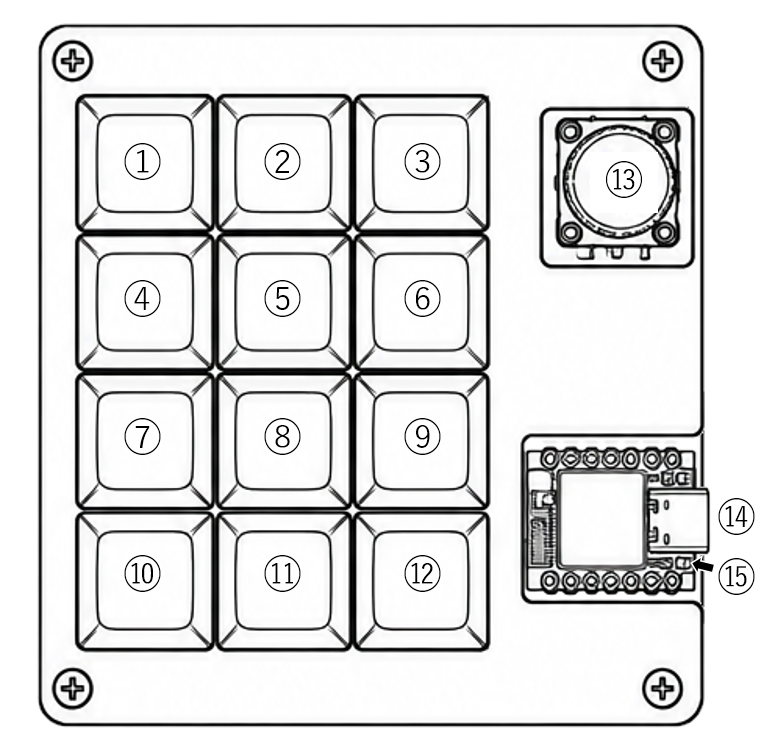
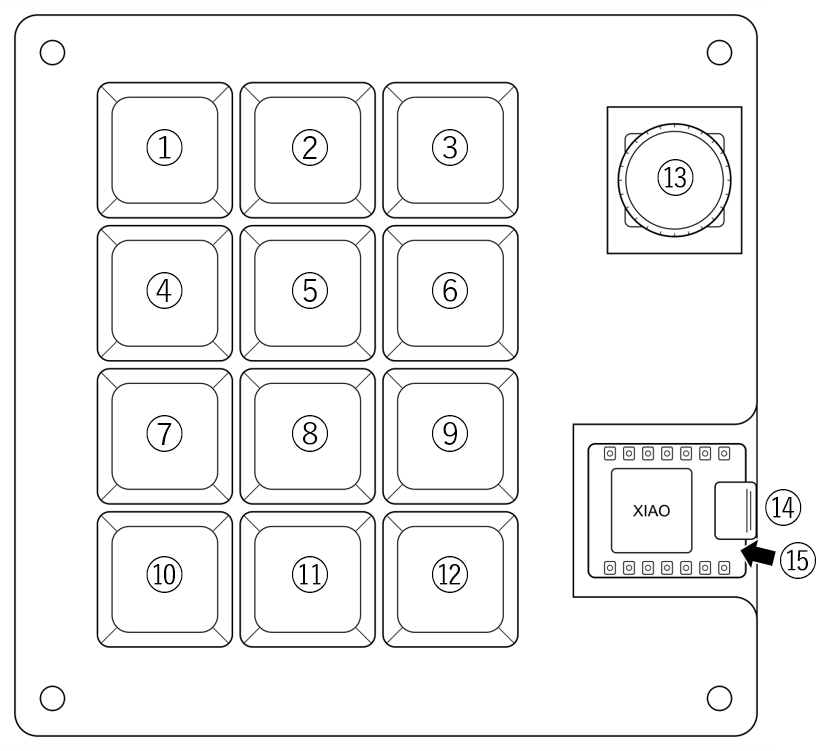
docs: Add assembly guide draft and publishing support

Changed region(s): [[0.0, 0.0, 0.9871, 0.98]]

diff --git a/scripts/templates/assembly-guide.html b/scripts/templates/assembly-guide.html
@@ -1,0 +1,28 @@
+<!doctype html>
+<html lang="ja">
+<head>
+<meta charset="utf-8">
+<meta name="viewport" content="width=device-width,initial-scale=1">
+<title>組み立てガイド — ChainPad</title>
+<meta name="description" content="ChainPad自作キットの組み立てガイド。">
+<link rel="icon" type="image/svg+xml" sizes="any" href="../favicon.svg">
+<style>
+:root{color-scheme:light dark;--bg:#10151d;--panel:#1b2330;--text:#eef5ff;--muted:#a9b8cc;--line:#374557;--accent:#66dbc1;font:16px system-ui,sans-serif}
+*{box-sizing:border-box}body{margin:0;background:var(--bg);color:var(--text)}main{width:min(860px,calc(100% - 32px));margin:auto}
+nav{display:flex;gap:20px;flex-wrap:wrap;padding:24px 0;border-bottom:1px solid var(--line)}a{color:var(--accent);text-underline-offset:4px}a:focus-visible{outline:3px solid var(--accent);outline-offset:4px}
+article{padding:36px 0 48px;line-height:1.85;overflow-wrap:anywhere}h1{font-size:clamp(30px,6vw,46px);line-height:1.3}h2{margin-top:2em;border-bottom:1px solid var(--line);padding-bottom:.3em}h3{margin-top:1.6em}h1,h2,h3,h4{scroll-margin-top:20px}
+img,video{max-width:100%;height:auto}pre{padding:16px;background:var(--panel);border:1px solid var(--line);border-radius:8px;overflow:auto;line-height:1.6}code{font-size:.9em}blockquote{margin:1.5em 0;padding:.3em 1em;border-left:4px solid var(--accent);background:var(--panel)}
+table{display:block;max-width:100%;overflow:auto;border-collapse:collapse}th,td{border:1px solid var(--line);padding:8px 12px;text-align:left}th{background:var(--panel)}.toc{padding:12px 20px;border:1px solid var(--line);border-radius:8px}footer{padding:24px 0 40px;border-top:1px solid var(--line);color:var(--muted);font-size:14px}
+@media(prefers-color-scheme:light){:root{--bg:#f3f6f8;--panel:#fff;--text:#182a38;--muted:#506275;--line:#bdcbd5;--accent:#087565}}
+</style>
+</head>
+<body>
+<main>
+<nav aria-label="メインナビゲーション"><a href="../">ChainPad ポータル</a><a href="../getting-started/">Getting Started</a><a href="../manual/">マニュアル</a><a href="../installer/">Web Installer</a><a href="https://github.com/shimez/ChainPad">GitHub</a></nav>
+<article aria-label="組み立てガイド">
+<!-- DOCUMENT_CONTENT -->
+</article>
+<footer><a href="../">ChainPad</a> · 組み立てガイド</footer>
+</main>
+</body>
+</html>

diff --git a/site/index.html b/site/index.html
@@ -12,7 +12,7 @@
 </style>
 </head>
 <body><main>
-<nav aria-label="メインナビゲーション"><a href="getting-started/">Getting Started</a><a href="manual/">マニュアル</a><a href="https://github.com/shimez/ChainPad">GitHub</a></nav>
+<nav aria-label="メインナビゲーション"><a href="getting-started/">Getting Started</a><a href="manual/">マニュアル</a><a href="assembly-guide/">組み立てガイド</a><a href="https://github.com/shimez/ChainPad">GitHub</a></nav>
 <header><small>PROJECT CHIMERA</small><div class="brand"><img src="favicon.svg" alt="" width="100" height="100"><h1>ChainPad</h1></div><p>マルチプロトコルマクロキーパッド</p><p class="muted">ChainPadは、1つのキー操作にOSC・MIDI・HIDなど複数のアクションを組み合わせて実行できる、12キー＋ロータリーエンコーダーのキーパッドです。</p><div class="links"><a class="button" href="getting-started/">Getting Started →</a><a href="https://github.com/shimez/ChainPad#readme">使い方・仕様を見る</a></div></header>
 <section aria-labelledby="possibilities">
 <h2 id="possibilities">ChainPadでできること</h2>

diff --git a/tests/test_build_site.py b/tests/test_build_site.py
@@ -69,7 +69,7 @@ class PagesTests(unittest.TestCase):
     def test_guide_renders_markdown_and_copies_images(self):
         root = Path(self.temp.name) / "source"
         (root / "scripts/templates").mkdir(parents=True)
-        for page in ("getting-started", "manual"):
+        for page in ("getting-started", "manual", "assembly-guide"):
             guide = root / "site" / page
             (guide / "images").mkdir(parents=True)
             (guide / "images/sample.svg").write_text('<svg xmlns="http://www.w3.org/2000/svg"/>')
@@ -77,7 +77,7 @@ class PagesTests(unittest.TestCase):
             (root / f"scripts/templates/{page}.html").write_text('<main><!-- DOCUMENT_CONTENT --></main>')
         with patch.object(site, "ROOT", root), patch.object(site, "OUTPUT", self.output), patch.object(site.subprocess, "check_output", return_value="a" * 40):
             site.copy_site()
-        for page in ("getting-started", "manual"):
+        for page in ("getting-started", "manual", "assembly-guide"):
             html = (self.output / page / "index.html").read_text(encoding="utf-8")
             self.assertIn('<div class="toc">', html)
             self.assertIn("<table>", html)

diff --git a/scripts/build_site.py b/scripts/build_site.py
@@ -78,7 +78,7 @@ def prepare(base):
 
 def copy_site():
     shutil.copytree(ROOT / "site", OUTPUT, dirs_exist_ok=True, ignore=shutil.ignore_patterns("*.md", ".gitkeep"))
-    for page in ("getting-started", "manual"):
+    for page in ("getting-started", "manual", "assembly-guide"):
         source = ROOT / f"site/{page}/index.md"
         template = (ROOT / f"scripts/templates/{page}.html").read_text(encoding="utf-8")
         content = markdown.markdown(source.read_text(encoding="utf-8"), extensions=["fenced_code", "tables", "toc", "sane_lists", "footnotes"], output_format="html")

diff --git a/site/assembly-guide/index.md b/site/assembly-guide/index.md
@@ -1,0 +1,95 @@
+# ChainPad 組み立てガイド
+
+<!-- 本文をここに記載してください。執筆・公開方法は docs/assembly-guide-authoring.md を参照。 -->
+
+基板・エンコーダー・ネジ類を含む自作キットの組み立てガイドです。
+XIAOやキースイッチなどを別途用意し、はんだ付けして組み立てる方向けの内容です。
+
+準備中です。
+
+## 1. キットの内容について
+
+**キットの内容物**
+
+| 品名                     | 個数 |
+| ------------------------ | ---- |
+| メイン基板               | 1    |
+| バックパネル             | 1    |
+| スイッチプレート         | 1    |
+| ロータリーエンコーダー   | 1    |
+| ネジ（M3 12mm）          | 4    |
+| ナット（M3）             | 8    |
+| ワッシャー（M3 厚さ1mm） | 12   |
+
+**キット以外に必要なもの**
+
+| 品名                                                     | 個数 |
+| -------------------------------------------------------- | ---- |
+| XIAO（ESP32S3/C5/C6のいずれか）                          | 1    |
+| キースイッチ（MX互換）                                   | 12   |
+| Kailhスイッチソケット（キースイッチ交換に対応する場合）  | 12   |
+| XIAO取り付け用ソケット（直接はんだ付け方式の場合は推奨） | 1組  |
+
+## 2. 組み立て手順の違いについて
+
+「スイッチソケットを利用する場合」と「キースイッチを直接はんだ付けする場合」とで、組み立て手順が異なります。
+
+- キースイッチを直接はんだ付けする場合、XIAOはソケットで取り付けることを強く推奨します（SMD実装した場合、はんだ付け不良時のリカバリ時にスイッチプレートが干渉して作業が困難です）
+- キースイッチを直接はんだ付けする場合、キースイッチのはんだ付けの前にスイッチプレートを基板に取り付ける必要があります。
+
+## 3. 組み立て手順① スイッチソケット利用（推奨手順）
+
+### 3-1. スイッチソケットのはんだ付け
+
+メイン基板の裏面に、スイッチソケットをはんだ付けしてください（計12個）
+
+### 3-2. XIAOのはんだ付け
+
+SMD実装する場合：メイン基板の表面にXIAOを乗せ、側面をはんだ付けしてください
+ソケット実装する場合：メイン基板の表面からXIAOのソケットを挿入し、裏面ではんだ付けしてください
+
+### 3-3. ロータリーエンコーダーのはんだ付け
+
+メイン基板の表面からロータリーエンコーダーを挿入し、裏面ではんだ付けしてください。
+
+### 3-4. スイッチプレートの取り付け
+
+1. スイッチプレートの表面からねじを挿入し、裏面からワッシャーとナットを取り付けてください
+2. 手順1で組み合わせたスイッチプレートのネジをメイン基板に挿入してください
+
+### 3-5. バックパネルの取り付け
+
+1. メイン基板から出たネジ部分にワッシャーを2つずつ取り付けてください
+2. バックパネルを取り付け、ナットで締め付けてください
+
+### 3-6. キースイッチの取り付け
+
+キースイッチをソケットに挿入してください。（端子の折れ曲がりに注意してください）
+
+## 4. 組み立て手順② キースイッチ直接はんだ付け
+
+### 4-1. XIAO取り付け用ソケットのはんだ付け
+
+メイン基板の表面からXIAOのソケットを挿入し、裏面ではんだ付けしてください
+
+### 4-2. ロータリーエンコーダーのはんだ付け
+
+メイン基板の表面からロータリーエンコーダーを挿入し、裏面ではんだ付けしてください。
+
+### 4-3. スイッチプレートの取り付け
+
+1. スイッチプレートの表面からねじを挿入し、裏面からワッシャーとナットを取り付けてください
+2. 手順1で組み合わせたスイッチプレートのネジをメイン基板に挿入してください
+
+### 4-4. キースイッチのはんだ付け
+
+キースイッチを挿入し、メイン基板の裏面からはんだ付けしてください（計12個）
+
+### 4-5. バックパネルの取り付け
+
+1. メイン基板から出たネジ部分にワッシャーを2つずつ取り付けてください
+2. バックパネルを取り付け、ナットで締め付けてください
+
+## 5. 組み立て後の作業について
+
+TODO:Getting Startedのファーム書き込み手順の後、1から進む手順を案内

diff --git a/docs/assembly-guide-authoring.md b/docs/assembly-guide-authoring.md
@@ -1,0 +1,29 @@
+# 組み立てガイドの執筆・公開
+
+- 本文：`site/assembly-guide/index.md`
+- 画像：`site/assembly-guide/images/`
+- ページの外枠：`scripts/templates/assembly-guide.html`
+- 公開予定URL：<https://shimez.github.io/ChainPad/assembly-guide/>
+
+「準備中です。」を本文に置き換えてください。章立ては自由です。
+目次は `[TOC]`、画像は `![画像の説明](images/assembly-step.png)` のように記載できます。
+画像は実ファイルを追加してください。表・コードブロック・脚注も利用できます。
+組み立て後の初期設定には `[Getting Started](../getting-started/)` でリンクできます。
+
+## ローカルプレビュー
+
+リポジトリのルートで実行します。
+
+```powershell
+.\.venv\Scripts\python.exe scripts/build_site.py --preview
+.\.venv\Scripts\python.exe -m http.server 8773 --directory _site
+```
+
+<http://127.0.0.1:8773/assembly-guide/> を開きます。
+編集後は `--preview` を再実行してブラウザを更新してください。
+生成物の `_site/assembly-guide/index.html` は直接編集しません。
+
+## 公開
+
+mainへPushすると、既存のGitHub ActionsがHTMLと画像を生成・配置し、Pagesへ公開します。
+追加のGitHub設定は不要です。

diff --git a/site/getting-started/index.md b/site/getting-started/index.md
@@ -218,9 +218,9 @@ ChainPadに設定したキーと同じキーをOBS側に設定することで、
 ## 8. ファームウェアを書き換える（必要な場合のみ）
 
 ChainPadのアップデートがあった場合はファームウェアの更新が可能です。<br>
-また、ChainPadと共通の基板を利用するChainOSCPadシリーズのファームウェアへの書き換えも可能です。
+また、ChainPadと共通の基板を利用するChainOSCPadシリーズのファームウェアへの書き換えもほぼ同じ手順で可能です。
 
-1. Web Installerのページにアクセスし、「Connect」や「Install」のボタンを押す
+1. [Web Installerのページ](../installer/)にアクセスし、「ChainPadをインストール」のボタンを押す
 2. シリアルポートの一覧が表示されるため、「USB JTAG/serial debug unit」と書かれたポートを選択する
 3. 画面の指示に従い、ファームウェアを書き込む
 4. ファームウェア書き換え後はBluetooth接続が不安定になる場合があります。PCのBluetooth設定で『ChainPad』（旧名『ChainPad Chimera』）を一旦削除し、改めて接続しなおしてください。
